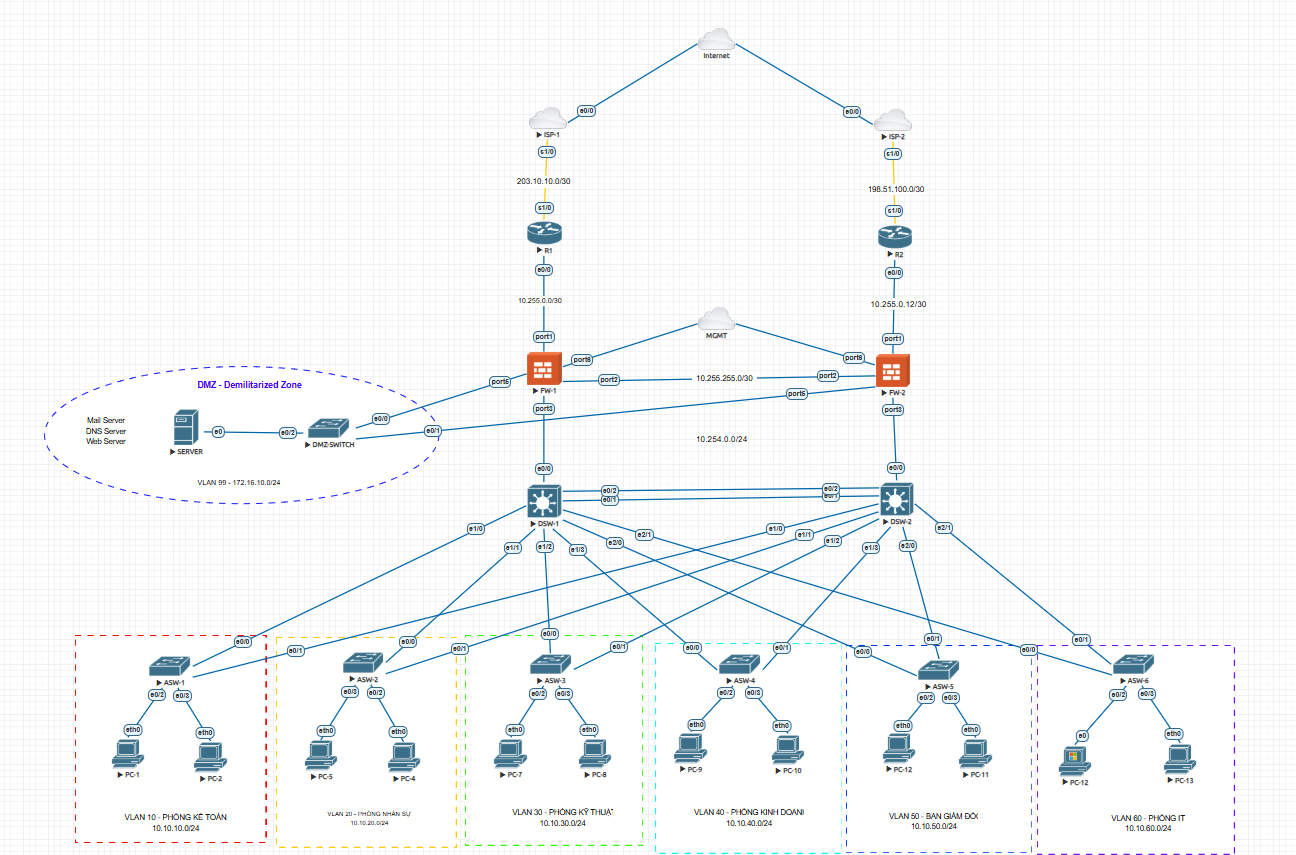
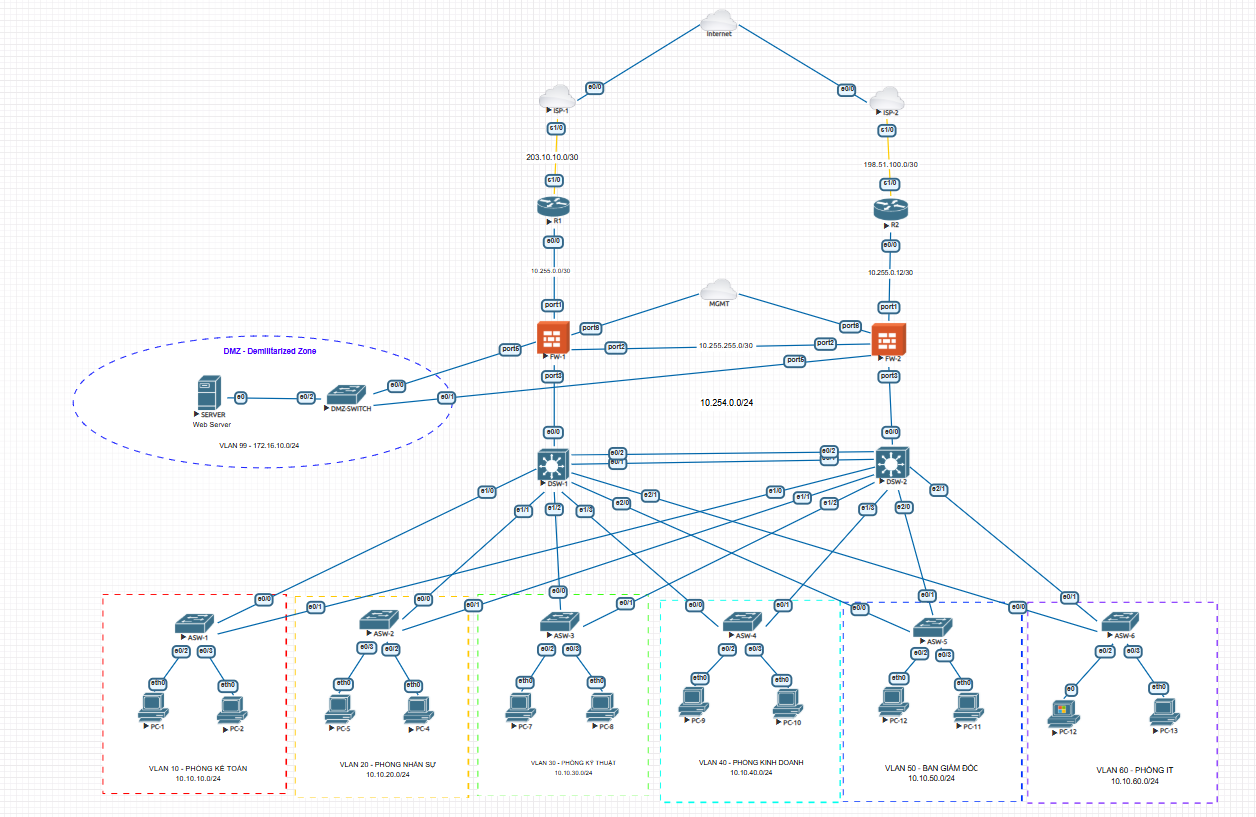
update readme

diff --git a/docs/ip-plan.md b/docs/ip-plan.md
@@ -1,0 +1,95 @@
+# IP PLAN
+
+## 1. Tổng quan hệ thống mạng
+
+Hệ thống mạng được thiết kế theo mô hình Enterprise Campus Network gồm:
+
+- Core Layer (DSW1, DSW2)
+- Access Layer (ASW1 → ASW6)
+- Firewall HA (FW-1, FW-2)
+- Dual ISP Failover
+- DMZ Zone
+- Các VLAN cho từng phòng ban
+
+---
+
+# 2. Kế hoạch địa chỉ IP
+
+| VLAN | Phòng Ban | Network | Gateway |
+|------|------------|------------|------------|
+| VLAN 10 | Phòng Kế Toán | 10.10.10.0/24 | 10.10.10.1 |
+| VLAN 20 | Phòng Nhân Sự | 10.10.20.0/24 | 10.10.20.1 |
+| VLAN 30 | Phòng Kỹ Thuật | 10.10.30.0/24 | 10.10.30.1 |
+| VLAN 40 | Phòng Kinh Doanh | 10.10.40.0/24 | 10.10.40.1 |
+| VLAN 50 | Ban Giám Đốc | 10.10.50.0/24 | 10.10.50.1 |
+| VLAN 60 | Phòng IT | 10.10.60.0/24 | 10.10.60.1 |
+| VLAN 99 | DMZ Web Server | 172.16.10.0/24 | 172.16.10.2 |
+
+---
+
+# 3. Địa chỉ IP WAN & Transit
+
+## ISP-1
+
+| Thiết Bị | Interface | IP Address |
+|----------|------------|------------|
+| ISP-1 | G1/0 | 203.10.10.1/30 |
+| R1 | G1/0 | 203.10.10.2/30 |
+
+---
+
+## ISP-2
+
+| Thiết Bị | Interface | IP Address |
+|----------|------------|------------|
+| ISP-2 | G1/0 | 198.51.100.1/30 |
+| R2 | G1/0 | 198.51.100.2/30 |
+
+---
+
+## Kết nối Router ↔ Firewall
+
+| Kết Nối | Network |
+|----------|------------|
+| R1 ↔ FW-1 | 10.255.0.0/30 |
+| R2 ↔ FW-2 | 10.255.0.12/30 |
+
+---
+
+## Firewall HA / Sync
+
+| Kết Nối | Network |
+|----------|------------|
+| FW-1 ↔ FW-2 HA | 10.255.255.0/30 |
+
+---
+
+## Core Network
+
+| Kết Nối | Network |
+|----------|------------|
+| FW ↔ Distribution Switch | 10.254.0.0/24 |
+
+---
+
+# 4. DHCP Scope
+
+| VLAN | DHCP Range |
+|------|------------|
+| VLAN 10 | 10.10.10.101 - 10.10.10.254 |
+| VLAN 20 | 10.10.20.101 - 10.10.20.254 |
+| VLAN 30 | 10.10.30.101 - 10.10.30.254 |
+| VLAN 40 | 10.10.40.101 - 10.10.40.254 |
+| VLAN 50 | 10.10.50.101 - 10.10.50.254 |
+| VLAN 60 | 10.10.60.101 - 10.10.60.254 |
+
+---
+
+# 5. DMZ Zone
+
+| Thiết Bị | IP Address | Dịch Vụ |
+|----------|------------|------------|
+| Web Server | 172.16.10.10 | HTTP/HTTPS |
+
+
+

diff --git a/README.md b/README.md
@@ -10,7 +10,6 @@ Dự án này mô phỏng và triển khai kiến trúc mạng doanh nghiệp hi
 - **DMZ (Demilitarized Zone)** cho các dịch vụ công khai như:
   - Web Server
   - DNS Server
-  - Mail Server
 - **Quản trị tập trung (Management Network)**
 - **Khả năng mở rộng linh hoạt** cho doanh nghiệp
 
@@ -44,8 +43,6 @@ Chức năng:
 
 - NAT/PAT
 - ACL Security Policies
-- VPN
-- IDS/IPS
 - Load balancing/failover
 - Kiểm soát truy cập giữa:
   - Internet ↔ DMZ
@@ -60,7 +57,6 @@ Chứa:
 
 - Web Server
 - DNS Server
-- Mail Server
 
 Ưu điểm:
 
@@ -129,9 +125,7 @@ Mỗi switch phục vụ một phòng ban riêng.
 - DMZ Isolation
 - VLAN Segmentation
 - Access Control Lists
-- Port Security
-- DHCP Snooping
-- Dynamic ARP Inspection
+
 
 ### Dự phòng
 
@@ -143,12 +137,6 @@ Mỗi switch phục vụ một phòng ban riêng.
 - Spanning Tree Protocol
 - HSRP/VRRP Gateway Redundancy
 
-### Quản trị
-
-- VLAN riêng cho quản trị
-- SSH/SNMP/Syslog
-- Centralized Monitoring
-- Backup Configuration
 
 ---
 
@@ -175,7 +163,6 @@ Mỗi switch phục vụ một phòng ban riêng.
 - Linux/Windows Server
 - Web: Apache/Nginx
 - DNS: Bind9
-- Mail: Postfix
 
 ---
 
@@ -198,7 +185,6 @@ Mỗi switch phục vụ một phòng ban riêng.
 - Kiểm tra failover ISP
 - NAT Internet Access
 - Public Web từ DMZ
-- Mail Service
 - DNS Resolution
 - Firewall ACL
 - STP Redundancy
@@ -212,8 +198,6 @@ Mỗi switch phục vụ một phòng ban riêng.
 - VMware / Proxmox
 - FortiGate / pfSense
 - Ubuntu Server / Windows Server
-- Wireshark
-- Zabbix / PRTG Monitoring
 
 ---
 
@@ -230,7 +214,6 @@ project/
 │── server/
 │   ├── web/
 │   ├── dns/
-│   ├── mail/
 │── docs/
 │   ├── ip-plan.md
 │   ├── security-policy.md
